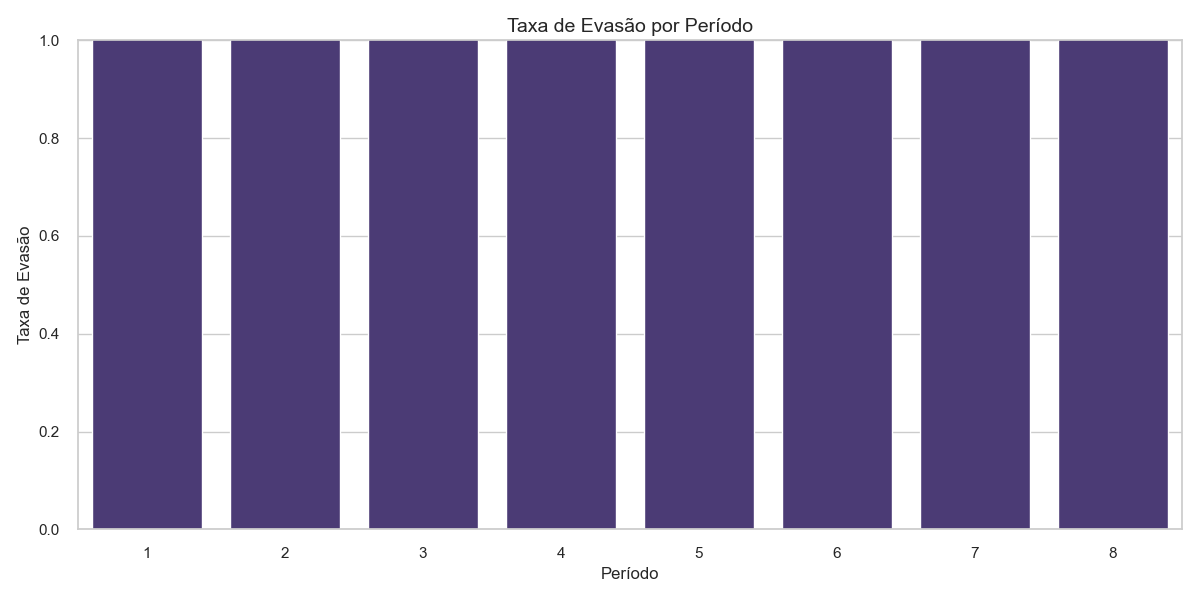
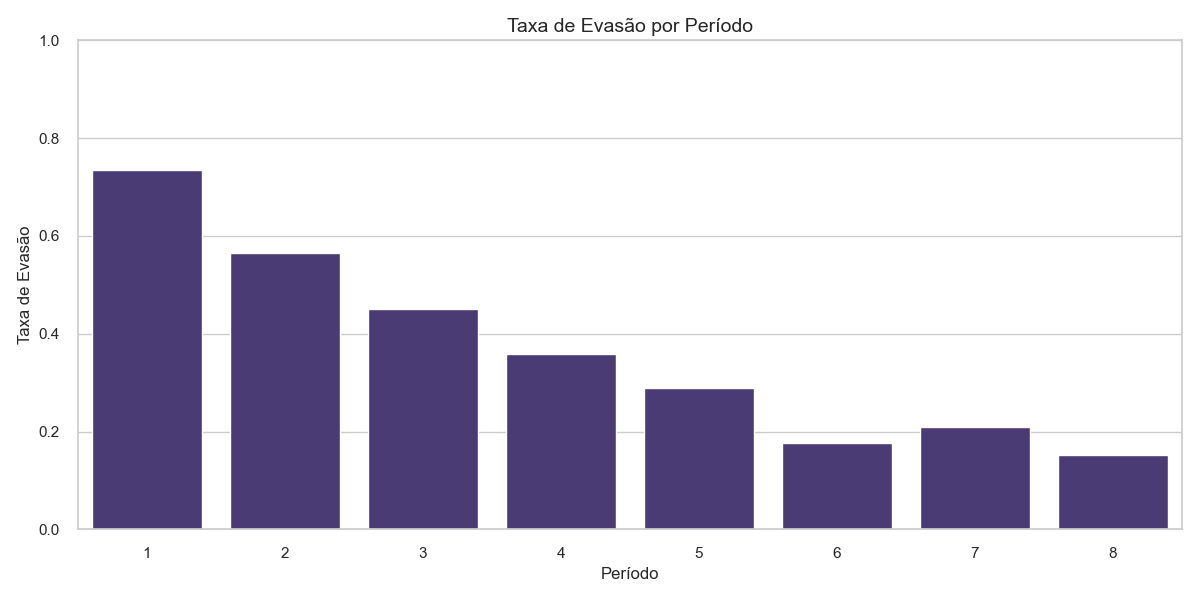
fixed evasao_periodo

diff --git a/codigo/main.py b/codigo/main.py
@@ -115,14 +115,24 @@ def analise_evasao(df):
     """
     print("\n[4/10] Análise de evasão...")
     
-    # Taxa de evasão por período
-    evasao_periodo = df.groupby('Período do Aluno')['Situação Atual do Aluno'].mean().reset_index()
+    # Criar uma coluna binária para evasão (se ainda não existir)
+    situacoes_evasao = ["Reprovado por Nota/Frequência", "Reprovado por Nota", "Reprovado por Frequência", "Reprovado em Exame de Suficiência", "Reprovado", "Cancelado"]
+    df['Evasao'] = df['Situação Disc.'].apply(lambda x: 1 if x in situacoes_evasao else 0)
+
+    # Calcular a taxa de evasão por período
+    evasao_periodo = df.groupby('Período do Aluno')['Evasao'].mean().reset_index()
+
+    # Verificar valores
+    print("\nVerificação de dados:")
+    print(evasao_periodo.head())
+
+    # Plotar gráfico
     plt.figure(figsize=(12, 6))
-    sns.barplot(x='Período do Aluno', y='Situação Atual do Aluno', data=evasao_periodo)
+    sns.barplot(x='Período do Aluno', y='Evasao', data=evasao_periodo)
     plt.title('Taxa de Evasão por Período', fontsize=14)
     plt.xlabel('Período', fontsize=12)
     plt.ylabel('Taxa de Evasão', fontsize=12)
-    plt.ylim(0, 1)
+    plt.ylim(0, 1)  # Garantir escala entre 0 e 1
     plt.tight_layout()
     plt.savefig('relatorio/graficos/evasao_periodo.png')
     plt.close()
